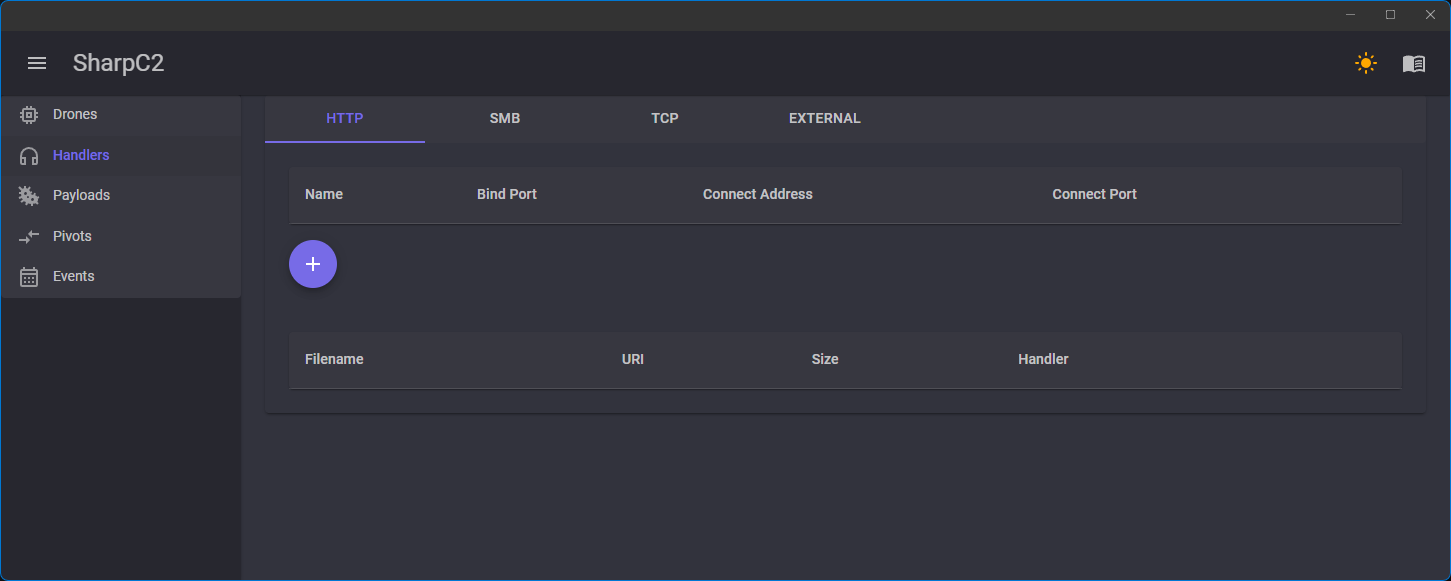
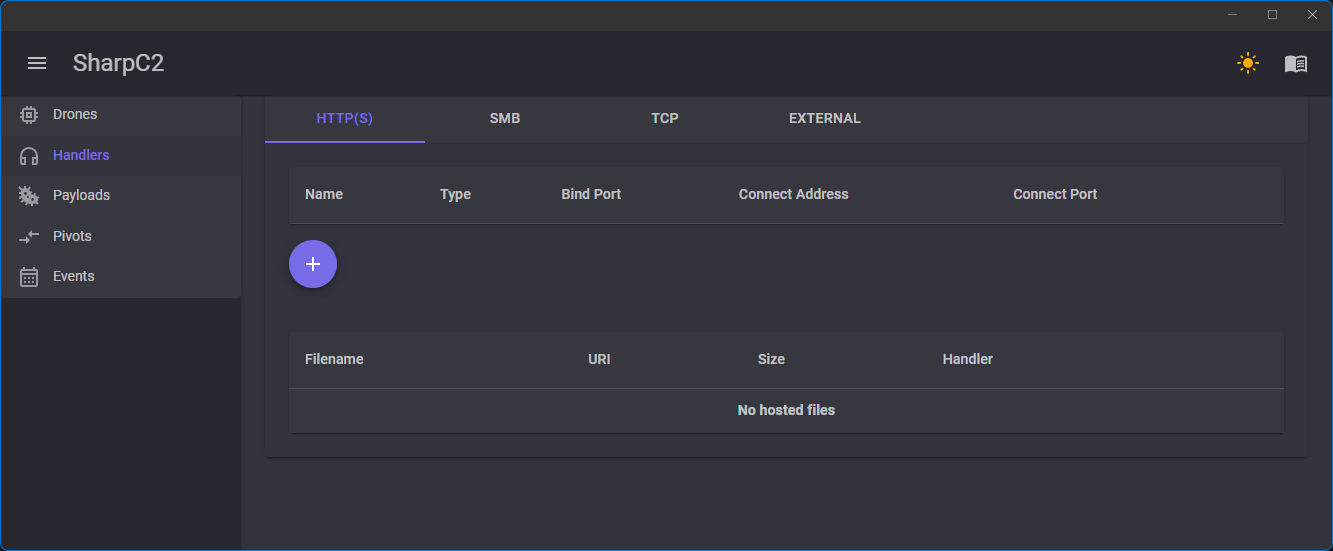
Add HTTPS docs

diff --git a/docs/source/handlers.rst b/docs/source/handlers.rst
@@ -10,7 +10,7 @@ Click on the ``+`` button to add a handler of the selected type.
 HTTP
 ----
 
-The HTTP handler is an egress handler, and takes 4 options:
+The HTTP handler is an egress handler, and has 4 options:
 
 * Name
 
@@ -30,13 +30,29 @@ The HTTP handler is an egress handler, and takes 4 options:
 
 .. image:: /images/handlers/http.png
 
+HTTPS
+-----
+
+The HTTPS handler is an egress handler, and has 2 additional options:
+
+* PFX Certificate
+
+  * A certificate in PKCS #12 format.  If no certificate is provided, a self-signed certificate will be generated.
+
+* PFX Password
+
+  * If the PFX was generated with a password.
+
+.. image:: /images/handlers/https.png
+
+
 .. note::
-    There is currently no option exposed to enable HTTPS.
+    The current configuration is such that an HTTPS Drone will automatically accept any untrusted SSL certificate.
 
 SMB
 ---
 
-The SMB handler is a P2P handler, and takes 2 options:
+The SMB handler is a P2P handler, and has 2 options:
 
 * Name
 
@@ -51,7 +67,7 @@ The SMB handler is a P2P handler, and takes 2 options:
 TCP
 ---
 
-The TCP handler is a P2P handler, and takes 3 options:
+The TCP handler is a P2P handler, and has 3 options:
 
 * Name
 
@@ -70,7 +86,7 @@ The TCP handler is a P2P handler, and takes 3 options:
 EXTERNAL
 --------
 
-The External handler is an egress handler, and takes 2 options:
+The External handler is an egress handler, and has 2 options:
 
 * Name
 
